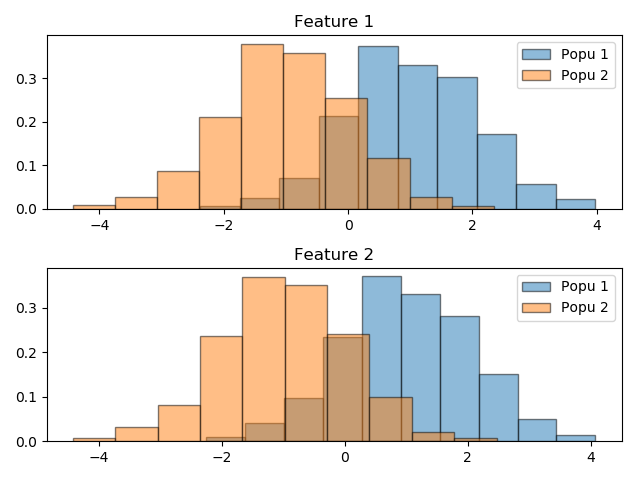
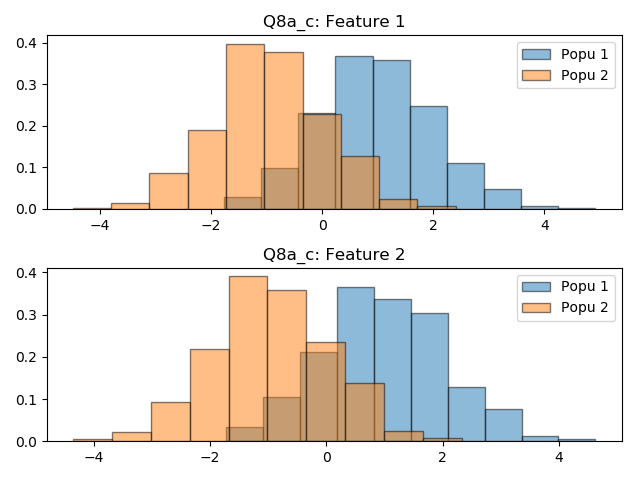
Done plotting.

diff --git a/Code/runme.py b/Code/runme.py
@@ -18,21 +18,22 @@ def Q7d(samp1, samp2):
     R = np.array(((c, -s), (s, c)))
     samp1_R = np.matmul(R, samp1.T).T
     samp2_R = np.matmul(R, samp2.T).T
-    Q7b(samp1_R, samp2_R, qnum='7d_',rotated=True)
-    Q7c(samp1_R, samp2_R, qnum='7d_',rotated=True)
+    Q7b(samp1_R, samp2_R, qnum='7d_', rotated=True)
+    Q7c(samp1_R, samp2_R, qnum='7d_', rotated=True)
 
 
-def Q7c(samp1, samp2, qnum='7',rotated=False):
+def Q7c(samp1, samp2, qnum='7', rotated=False):
     '''
     :param samp1: shape=(n_samples, 2)
     :param samp2: shape=(n_samples, 2)
     :return:
     '''
     gc.enter_func()
+    fn_pref = f'Q{qnum}c'
     rot_title = ', Rotated' if rotated else ''
     gc.init_plt()
     plt.subplot(2, 1, 1)
-    plt.title('Feature 1' + rot_title)
+    plt.title(f'{fn_pref}: Feature 1{rot_title}')
     plt.hist(samp1[:, 0], density=True, edgecolor='k', alpha=0.5,
              label='Popu 1')
     plt.hist(samp2[:, 0], density=True, edgecolor='k', alpha=0.5,
@@ -40,13 +41,12 @@ def Q7c(samp1, samp2, qnum='7',rotated=False):
     plt.legend()
 
     plt.subplot(2, 1, 2)
-    plt.title('Feature 2' + rot_title)
+    plt.title(f'{fn_pref}: Feature 2{rot_title}')
     plt.hist(samp1[:, 1], density=True, edgecolor='k', alpha=0.5,
              label='Popu 1')
     plt.hist(samp2[:, 1], density=True, edgecolor='k', alpha=0.5,
              label='Popu 2')
     plt.legend()
-    fn_pref = f'Q{qnum}c'
     gc.save_plt(f'{fn_pref}')
 
 
@@ -57,19 +57,22 @@ def Q7b(samp1, samp2, qnum='7', rotated=False):
     :return:
     '''
     gc.enter_func()
+    fn_pref = f'Q{qnum}b'
     rot_title = ', Rotated' if rotated else ''
-    gc.init_plt(f'Normal Distribution{rot_title}')
+    gc.init_plt(f'{fn_pref}: Normal Distribution{rot_title}')
     plt.scatter(samp1[:, 0], samp1[:, 1], alpha=0.5, label='Population 1')
     plt.scatter(samp2[:, 0], samp2[:, 1], alpha=0.5, label='Population 2')
     plt.legend()
-    fn_pref = f'Q{qnum}b'
     gc.save_plt(f'{fn_pref}')
 
 
-def Q7a(cov):
+def Q7a(cov, mu1=None, mu2=None):
     gc.enter_func()
     m = 1000
-    mu1, mu2 = np.array([1, 1]), np.array([-1, -1])
+    if (mu1 is None) and (mu2 is None):
+        mu1, mu2 = np.array([1, 1]), np.array([-1, -1])
+    else:
+        mu1, mu2 = mu1, mu2
     samp1 = np.random.multivariate_normal(mu1, cov, m)
     samp2 = np.random.multivariate_normal(mu2, cov, m)
     return samp1, samp2
@@ -80,9 +83,9 @@ def Q7warmup():
     m = 1000
     dist = stats.norm()
     samp = dist.rvs(m)
-    x = np.linspace(start=stats.norm.ppf(0.01), stop=stats.norm.ppf(0.99),
+    x = np.linspace(start=stats.norm.ppf(0.001), stop=stats.norm.ppf(0.999),
                     num=250)
-    gc.init_plt('PDF and Histogram, Normal Distribution')
+    gc.init_plt('Q7warmup: PDF and Histogram, Normal Distribution')
     plt.plot(x, dist.pdf(x), label='PDF')
     plt.hist(samp, density=True, edgecolor='k', alpha=0.7, label='Histogram')
     plt.legend()
@@ -96,67 +99,6 @@ def Q7():
     Q7b(samp1, samp2)
     Q7c(samp1, samp2)
     Q7d(samp1, samp2)
-#
-#
-# def Q8c(samp1, samp2, poscorr=True):
-#     '''
-#     :param samp1: shape=(n_samples, 2)
-#     :param samp2: shape=(n_samples, 2)
-#     :return:
-#     '''
-#     gc.enter_func()
-#     corr_title = ', Pos Correlated' if poscorr else ', Neg Correlated'
-#     corr_fn = '_pcorr' if poscorr else '_ncorr'
-#     gc.init_plt()
-#     plt.subplot(2, 1, 1)
-#     plt.title('Feature 1' + corr_title)
-#     plt.hist(samp1[:, 0], density=True, edgecolor='k', alpha=0.5,
-#              label='Popu 1')
-#     plt.hist(samp2[:, 0], density=True, edgecolor='k', alpha=0.5,
-#              label='Popu 2')
-#     plt.legend()
-#
-#     plt.subplot(2, 1, 2)
-#     plt.title('Feature 2' + corr_title)
-#     plt.hist(samp1[:, 1], density=True, edgecolor='k', alpha=0.5,
-#              label='Popu 1')
-#     plt.hist(samp2[:, 1], density=True, edgecolor='k', alpha=0.5,
-#              label='Popu 2')
-#     plt.legend()
-#     qnum = 'Q8a_' if poscorr else 'Q8b_'
-#     gc.save_plt(qnum + 'c')
-#
-#
-# def Q8b(samp1, samp2, poscorr=True):
-#     '''
-#     :param samp1: shape=(n_samples, 2)
-#     :param samp2: shape=(n_samples, 2)
-#     :return:
-#     '''
-#     gc.enter_func()
-#     corr_title = ', Pos Correlated' if poscorr else ', Neg Correlated'
-#     corr_fn = '_pcorr' if poscorr else '_ncorr'
-#     gc.init_plt('Normal Distribution' + corr_title)
-#     plt.scatter(samp1[:, 0], samp1[:, 1], alpha=0.5, label='Population 1')
-#     plt.scatter(samp2[:, 0], samp2[:, 1], alpha=0.5, label='Population 2')
-#     plt.legend()
-#     qnum = 'Q8a_' if poscorr else 'Q8b_'
-#     gc.save_plt(qnum + 'b')
-#
-#
-# def Q8a(poscorr=True):
-#     gc.enter_func()
-#     m, dim = 1000, 2
-#     mu1, mu2 = np.array([1.0, 1]), np.array([-1.0, -1])
-#
-#     V = (1.0 / np.sqrt(2)) * np.array([[1.0, 1], [1, -1]])
-#     D_corr = np.array([[2.0, 0], [0, 0.01]])
-#     D_ncorr = np.array([[0.01, 0], [0, 2]])
-#     D = D_corr if poscorr else D_ncorr
-#     cov = np.matmul(np.matmul(V, D), V.T)
-#     samp1 = np.random.multivariate_normal(mu1, cov, m)
-#     samp2 = np.random.multivariate_normal(mu2, cov, m)
-#     return samp1, samp2
 
 
 def Q8corr(poscorr=True):
@@ -167,7 +109,7 @@ def Q8corr(poscorr=True):
     D = D_corr if poscorr else D_ncorr
     cov = np.matmul(np.matmul(V, D), V.T)
     samp1, samp2 = Q7a(cov)
-    qnum='8a_' if poscorr else '8b_'
+    qnum = '8a_' if poscorr else '8b_'
     Q7b(samp1, samp2, qnum)
     Q7c(samp1, samp2, qnum)
 
@@ -175,13 +117,19 @@ def Q8corr(poscorr=True):
 def Q8():
     gc.enter_func()
     Q8corr()
-    Q8corr(True)
+    Q8corr(False)
 
 
 def Q9():
     gc.enter_func()
-    Q8corr()
-    Q8corr(False)
+    V = 0.5 * np.array([[np.sqrt(3), 1], [1, -np.sqrt(3)]])
+    D = np.array([[2.0, 0], [0, 0.01]])
+    cov = np.matmul(np.matmul(V, D), V.T)
+    mu1, mu2 = np.array([0, 3 / 2]), np.array([0, -3 / 2])
+    samp1, samp2 = Q7a(cov, mu1, mu2)
+    qnum = '9a_'
+    Q7b(samp1, samp2, qnum)
+    Q7c(samp1, samp2, qnum)
 
 
 def main():
